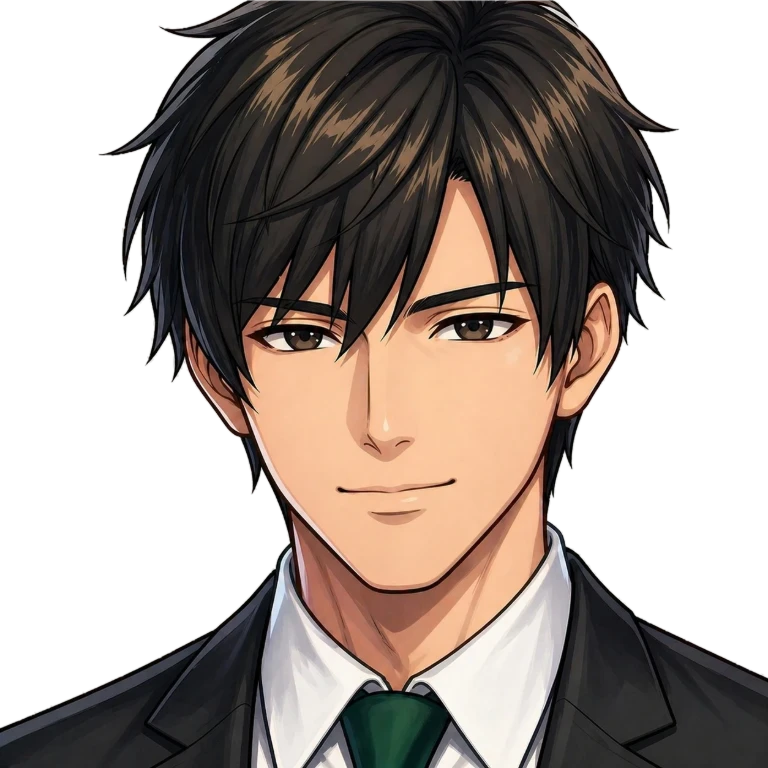
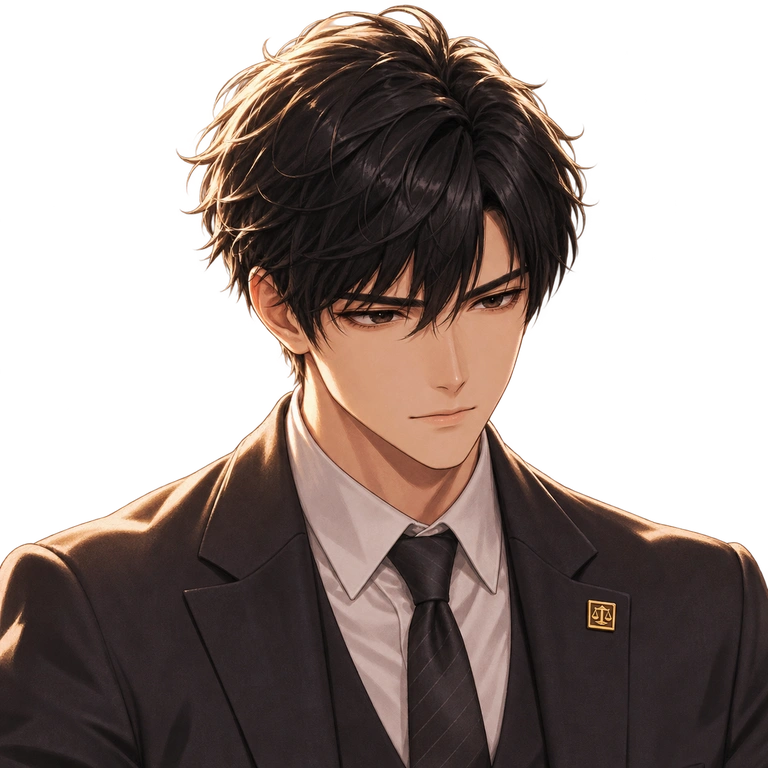
대화 장면용 주인공 얼굴(story/cut/hero-m·hero-f)도 새 그림으로 교체

diff --git a/sw.js b/sw.js
@@ -2,7 +2,7 @@
 // 앱(화면 파일)은 배포할 때마다 새 판으로 바꾸고, 그림(assets/)은 버전과 상관없는 따로 된 저장소에 둔다.
 // 그래서 배포해도 이미 받은 그림은 다시 받지 않는다. 그림은 저장해 둔 것을 바로 보여 주고, 뒤에서 바뀌었는지만 확인한다.
 // 같은 이름의 그림을 다시 그려 바꿨을 때도 다음 실행부터 새 그림이 보인다(뒤에서 확인한 결과).
-const CACHE = "truth-v1795380000000";
+const CACHE = "truth-v1795390000000";
 const IMG = "truth-img-1";
 const PRECACHE = ["./","./index.html","./story.html","./manifest.webmanifest","./icon-192.png","./icon-512.png","./apple-touch-icon.png","./assets/court-2.webp","./assets/end-close-f.jpg","./assets/end-close-m.jpg","./assets/end-top-f.jpg","./assets/end-top-m.jpg","./assets/frame-choice.png","./assets/frame-modal.webp","./assets/hero-f.webp","./assets/hero-m.webp","./assets/judge-close.webp","./assets/judge.webp","./assets/office-0-f.jpg","./assets/office-0-m.jpg","./assets/office-1-f.jpg","./assets/office-1-m.jpg","./assets/office-2-f.jpg","./assets/office-2-m.jpg","./assets/office-3-f.jpg","./assets/office-3-m.jpg","./assets/opp.webp","./assets/pros.webp","./assets/stamp-lose.png","./assets/stamp-win.png","./assets/title.jpg","./assets/cut/f-c1.webp","./assets/cut/f-c2.webp","./assets/cut/f-c3.webp","./assets/cut/f-c4.webp","./assets/cut/f-c5.webp","./assets/cut/f-c6.webp","./assets/cut/f-c7.webp","./assets/cut/f-c8.webp","./assets/cut/f-chef.webp","./assets/cut/f-exec.webp","./assets/cut/f-pd.webp","./assets/cut/f-ptf.webp","./assets/cut/f-ptm.webp","./assets/cut/f-pw.webp","./assets/cut/f-rep.webp","./assets/cut/f-vic.webp","./assets/cut/m01.webp","./assets/cut/m02.webp","./assets/cut/m03.webp","./assets/cut/m04.webp","./assets/cut/m05.webp","./assets/cut/m06.webp","./assets/cut/m07.webp","./assets/cut/m08.webp","./assets/cut/m09.webp","./assets/cut/m10.webp","./assets/cut/m11.webp","./assets/cut/m12.webp","./assets/cut/m13.webp","./assets/cut/m14.webp","./assets/cut/m15.webp","./assets/cut/m16.webp","./assets/cut/m18.webp","./assets/cut/m19.webp","./assets/cut/m20.webp","./assets/cut/m21.webp","./assets/cut/m22.webp","./assets/cut/m23.webp","./assets/cut/m24.webp","./assets/cut/m25.webp","./assets/cut/m26.webp","./assets/cut/m27.webp","./assets/cut/m28.webp","./assets/cut/m29.webp","./assets/cut/m30.webp","./assets/cut/n20f1.webp","./assets/cut/n20f2.webp","./assets/cut/n20f3.webp","./assets/cut/n20f4.webp","./assets/cut/n20m1.webp","./assets/cut/n20m2.webp","./assets/cut/n20m3.webp","./assets/cut/n20m4.webp","./assets/cut/n30f1.webp","./assets/cut/n30f2.webp","./assets/cut/n30f3.webp","./assets/cut/n30f4.webp","./assets/cut/n30m1.webp","./assets/cut/n30m2.webp","./assets/cut/n30m3.webp","./assets/cut/n30m4.webp","./assets/cut/n40f1.webp","./assets/cut/n40f2.webp","./assets/cut/n40f3.webp","./assets/cut/n40f4.webp","./assets/cut/n40m1.webp","./assets/cut/n40m2.webp","./assets/cut/n40m3.webp","./assets/cut/n40m4.webp","./assets/cut/n50f1.webp","./assets/cut/n50f2.webp","./assets/cut/n50f3.webp","./assets/cut/n50f4.webp","./assets/cut/n50m1.webp","./assets/cut/n50m2.webp","./assets/cut/n50m3.webp","./assets/cut/n50m4.webp","./assets/cut/n60f1.webp","./assets/cut/n60f2.webp","./assets/cut/n60f3.webp","./assets/cut/n60f4.webp","./assets/cut/n60m1.webp","./assets/cut/n60m2.webp","./assets/cut/n60m3.webp","./assets/cut/n60m4.webp","./assets/expr/hero-f_confident.webp","./assets/expr/hero-f_flustered.webp","./assets/expr/hero-f_neutral.webp","./assets/expr/hero-f_relieved.webp","./assets/expr/hero-f_serious.webp","./assets/expr/hero-m_confident.webp","./assets/expr/hero-m_flustered.webp","./assets/expr/hero-m_neutral.webp","./assets/expr/hero-m_relieved.webp","./assets/expr/hero-m_serious.webp","./assets/expr/opponent_confident.webp","./assets/expr/opponent_flustered.webp","./assets/expr/opponent_neutral.webp","./assets/expr/opponent_serious.webp","./assets/expr/prosecutor_confident.webp","./assets/expr/prosecutor_flustered.webp","./assets/expr/prosecutor_neutral.webp","./assets/expr/prosecutor_serious.webp","./assets/ops-end/grade-s-m.jpg","./assets/ops-end/grade-s-f.jpg","./assets/ops-end/grade-a-m.jpg","./assets/ops-end/grade-a-f.jpg","./assets/ops-end/grade-b-m.jpg","./assets/ops-end/grade-b-f.jpg","./assets/ops-end/grade-c-m.jpg","./assets/ops-end/grade-c-f.jpg","./assets/ops-end/grade-d-m.jpg","./assets/ops-end/grade-d-f.jpg","./assets/ops-end/newspaper.jpg","./assets/op/o1-f.webp","./assets/op/o1-m.webp","./assets/op/o2-f.webp","./assets/op/o2-m.webp","./assets/op/o3.webp","./assets/op/s1.webp","./assets/op/s2.webp","./assets/op/s3.webp","./assets/staff/investigator_female_20s.webp","./assets/staff/investigator_male_30s.webp","./assets/staff/investigator_male_40s.webp","./assets/staff/lawyer_female_20s.webp","./assets/staff/lawyer_female_30s.webp","./assets/staff/lawyer_female_30s_02.webp","./assets/staff/lawyer_female_30s_03.webp","./assets/staff/lawyer_female_30s_04.webp","./assets/staff/lawyer_male_20s_01.webp","./assets/staff/lawyer_male_30s.webp","./assets/staff/lawyer_male_30s_02.webp","./assets/staff/lawyer_male_30s_03.webp","./assets/staff/lawyer_male_30s_04.webp","./assets/staff/manager_female_40s.webp","./assets/staff/manager_male_30s.webp","./assets/staff/manager_male_50s.webp","./assets/staff/secretary_female_20s_01.webp","./assets/staff/secretary_female_20s_02.webp","./assets/staff/secretary_male_30s.webp"];
 const isAsset = u => /\/assets\//.test(new URL(u, self.location.href).pathname);
